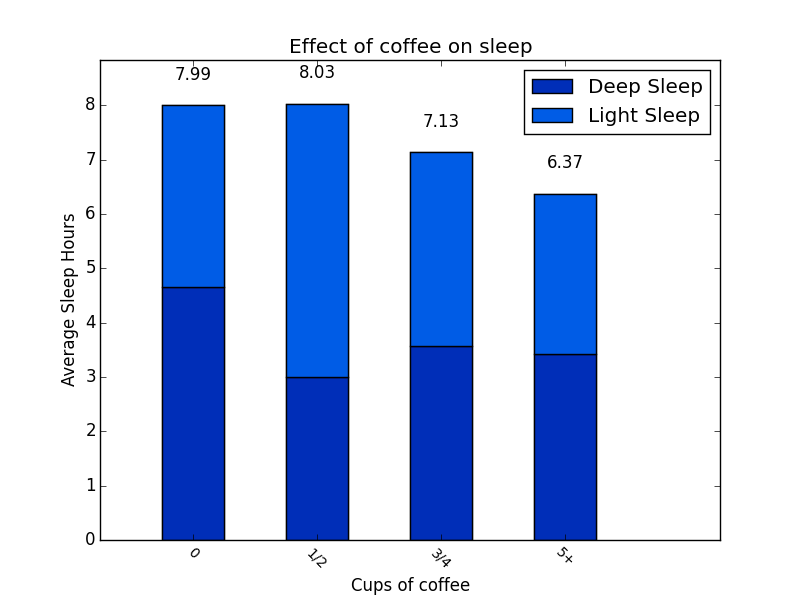
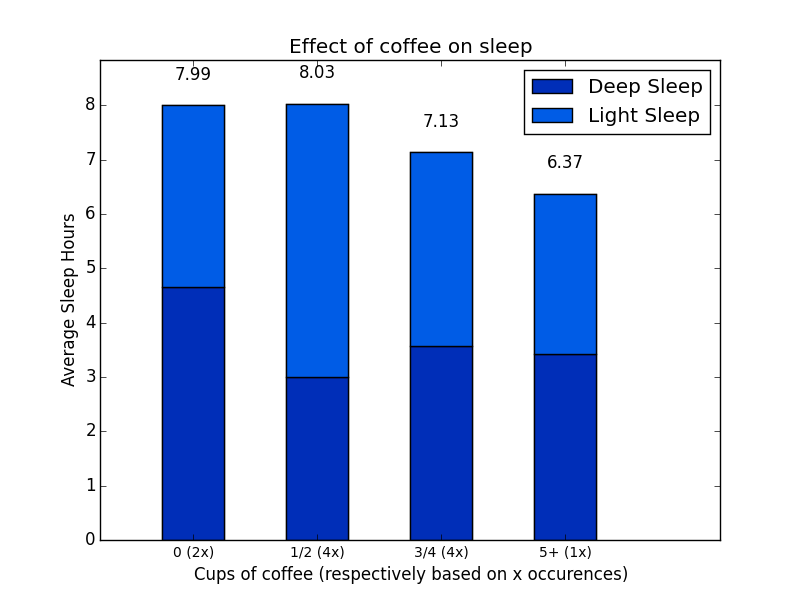
label update

Changed region(s): [[0.2188, 0.9, 0.7812, 0.99]]

diff --git a/plotter.py b/plotter.py
@@ -514,12 +514,16 @@ def coffee_effect_sleep(data):
         ax.set_xlim(-width, len(ind)+width)
         ax.set_ylim(0, max(average) + max(average) / 10)
         ax.set_ylabel('Average Sleep Hours')
-        ax.set_xlabel('Cups of coffee')
+        ax.set_xlabel('Cups of coffee (respectively based on x occurences)')
         ax.set_title('Effect of coffee on sleep')
+
+        for i in range(0, len(categories)):
+            categories[i] += ' (' + str(average_counter[i]) + 'x)'
+
         xTickMarks = categories
         ax.set_xticks(ind+(width/2))
         xtickNames = ax.set_xticklabels(xTickMarks)
-        plt.setp(xtickNames, rotation=-45, fontsize=10)
+        plt.setp(xtickNames, rotation=0, fontsize=10)
         #plt.legend((p1[0], p2[0], p3[0]), ('Deep Sleep', 'Light Sleep', 'Awake'))
         plt.legend((p1[0], p2[0]), ('Deep Sleep', 'Light Sleep'))
         plt.show()
